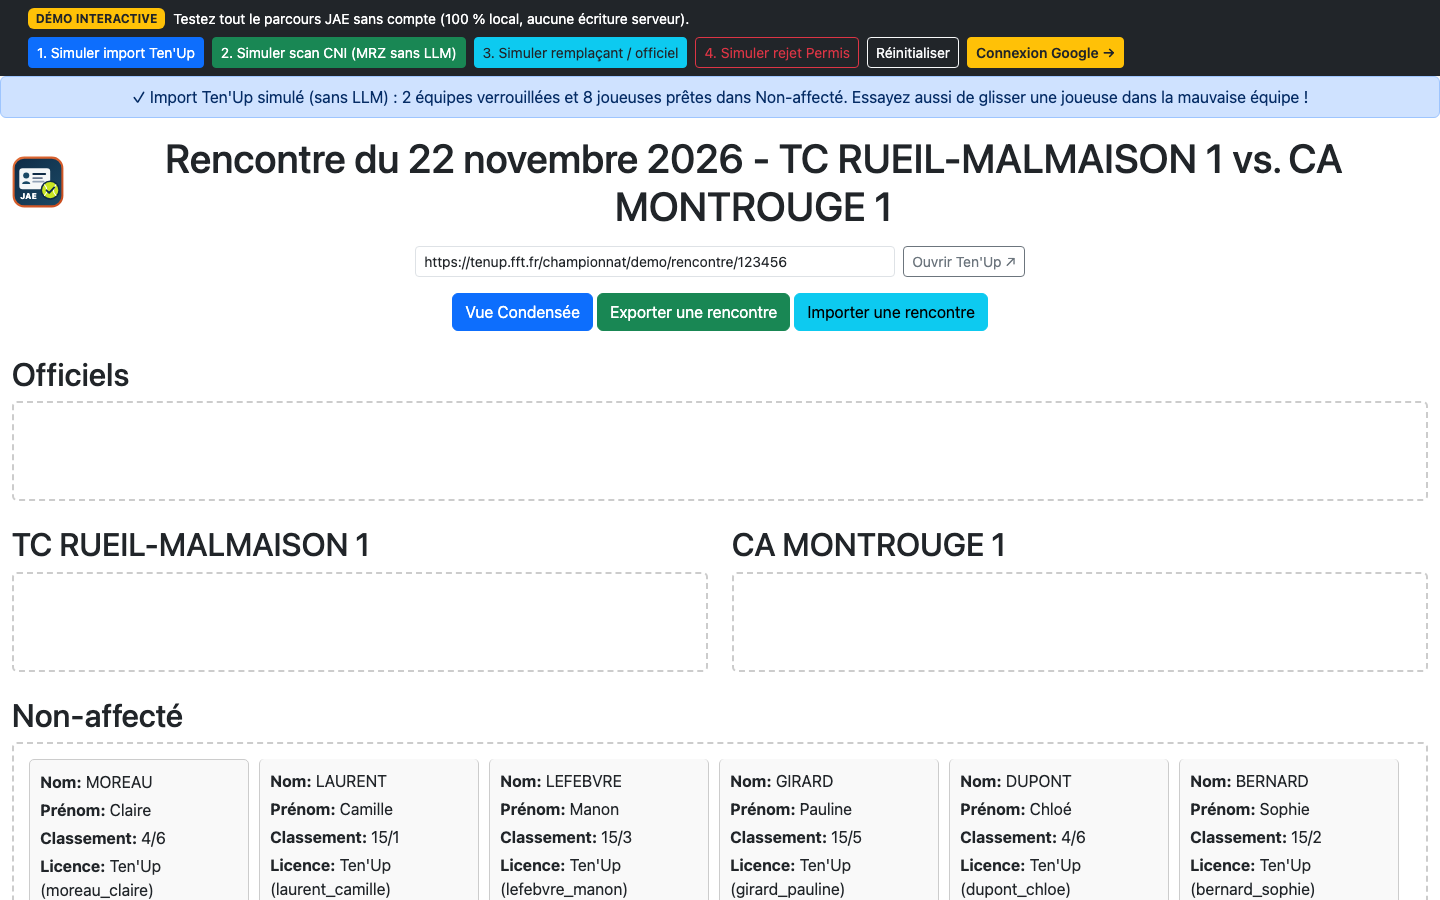
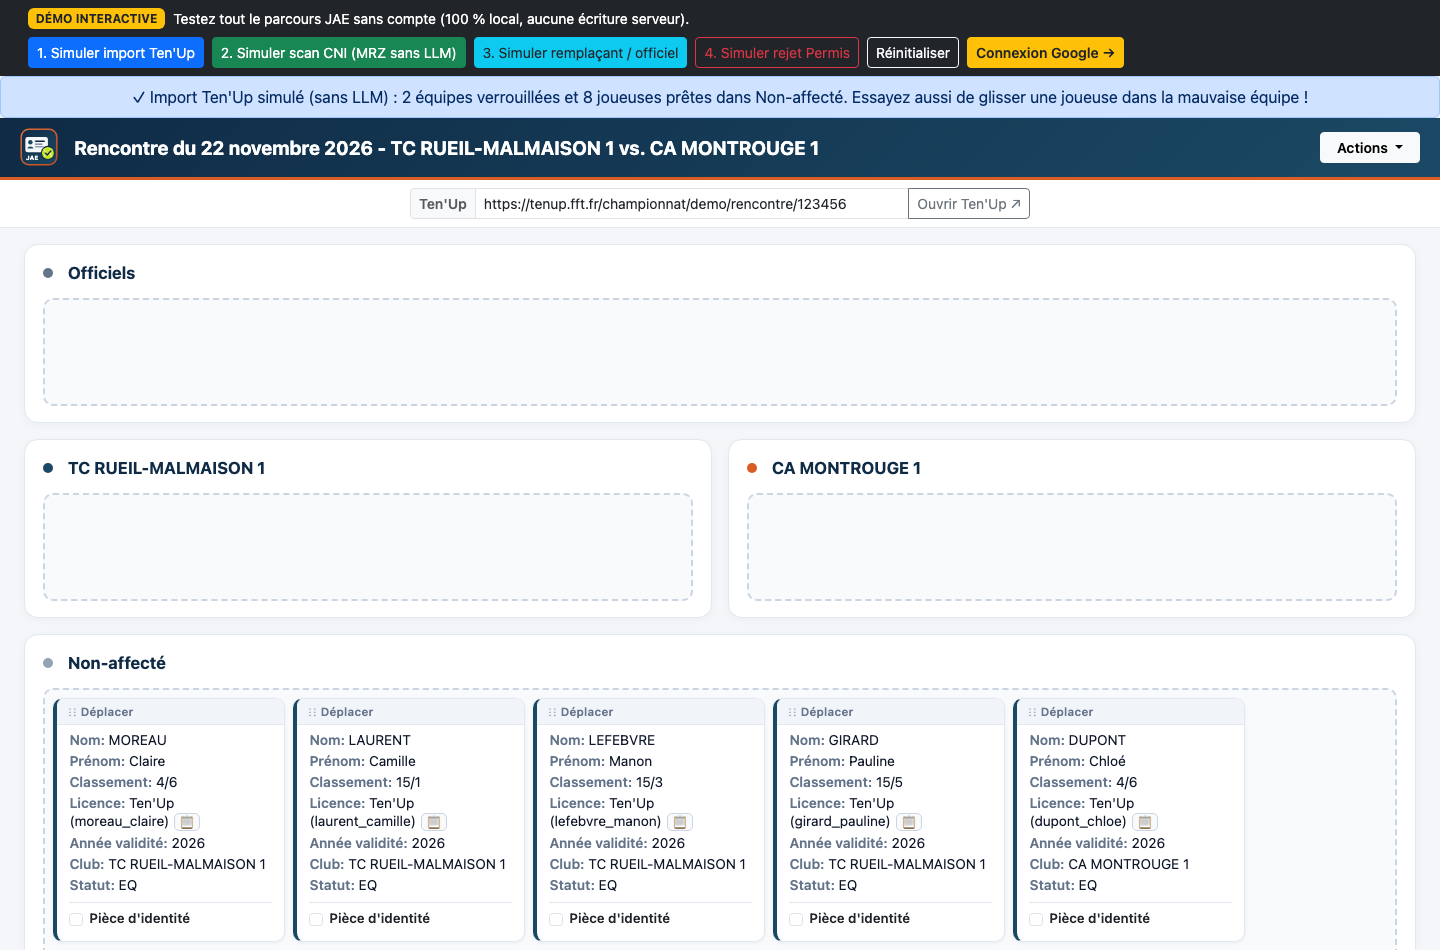
docs: update READMEs and refresh live UI screenshots

diff --git a/README.md b/README.md
@@ -35,12 +35,12 @@ Si vous ne souhaitez pas utiliser l'extension Chrome (ou sans accès à Ten'Up) 
 2. Chaque licence crée une fiche dans **Non-affecté**, et chaque pièce d'identité coche automatiquement la case *Pièce d'identité* correspondante.
 3. Glissez les fiches dans **Équipe 1**, **Équipe 2** ou **Officiels** : la première fiche déposée dans une équipe renomme automatiquement la colonne avec le nom de son club.
 
-Dans tous les scénarios, le tableau de bord se synchronise en temps réel entre plusieurs écrans (ordinateur, tablette), empêche de déposer par erreur une personne dans la mauvaise équipe, et permet d'exporter/importer une rencontre ou d'en démarrer une nouvelle.
+Dans tous les scénarios, le tableau de bord se synchronise en temps réel entre plusieurs écrans (ordinateur, tablette), empêche de déposer par erreur une personne dans la mauvaise équipe, et permet de déplacer les cartes par leur poignée dédiée (`⋮⋮ Déplacer`) tout en conservant la sélection de texte libre et un bouton de copie en un clic (`📋`) sur le numéro de licence. Le menu **Actions** regroupe la vue condensée, l'export/import JSON, le scanner web, la création d'une nouvelle rencontre et, pour les administrateurs, l'accès à la **Console d'administration**.
 
 ## Règles de contrôle, comptes & confidentialité
 
-- **Accès nominatif Google OAuth uniquement (sans mot de passe)** : chaque Juge-Arbitre se connecte exclusivement via **Google** (Firebase Authentication) ; aucun mode anonyme ni mot de passe n'est autorisé. Les nouveaux comptes doivent être **approuvés par l'administrateur** avant de pouvoir accéder à l'application. Pour découvrir le fonctionnement sans compte, une **[démo interactive en ligne](/demo)** est accessible librement (100 % locale, sans écriture serveur).
-- **Une seule rencontre active par JAE, plusieurs rencontres en parallèle** : plusieurs Juges-Arbitres peuvent utiliser l'application simultanément sur des rencontres différentes. Chaque JAE ne gère qu'une seule rencontre active à la fois (identifiée dans l'URL `/m/<identifiant>` pour conserver la session au rafraîchissement), et démarrer une *Nouvelle rencontre* archive proprement la précédente.
+- **Accès nominatif Google OAuth uniquement (sans mot de passe)** : chaque Juge-Arbitre se connecte exclusivement via **Google** (Firebase Authentication) ; aucun mode anonyme ni mot de passe n'est autorisé. Les nouveaux comptes doivent être **approuvés par l'administrateur** avant de pouvoir accéder à l'application. Pour découvrir le fonctionnement sans compte, une **[démo interactive en ligne](https://jae-ocr-2500276981.europe-west1.run.app/demo)** est accessible librement (100 % locale, sans écriture serveur).
+- **Une seule rencontre active par JAE, plusieurs rencontres en parallèle** : plusieurs Juges-Arbitres peuvent utiliser l'application simultanément sur des rencontres différentes. Chaque JAE ne gère qu'une seule rencontre active à la fois (réutilisant directement l'identifiant officiel Ten'Up dans l'URL `/m/<identifiant>` lors d'un import, de façon idempotente sans créer de doublons en cas de réimport), et démarrer une *Nouvelle rencontre* archive proprement la précédente.
 - **Pièces d'identité acceptées uniquement** : **Cartes Nationales d'Identité (CNI)** (ancien ou nouveau format, françaises ou étrangères) et **Passeports**. Les **permis de conduire** et **titres/cartes de séjour** sont automatiquement refusés.
 - **Analyse locale en priorité (sans envoi de photo)** : à chaque fois que c'est possible, la lecture se fait **directement sur votre appareil** (lecture locale des équipes dans Chrome, lecture locale de la bande MRZ des CNI et passeports sur Android). **Aucune photo n'est alors envoyée au serveur** et la validation s'effectue en moins d'une seconde.
 - **Analyse serveur de secours uniquement si besoin** : une photo compressée n'est envoyée au serveur que lorsque la lecture locale ne suffit pas (par exemple un recto seul de nouvelle CNI sans bande MRZ, une carte difficile à lire, ou une attestation de licence FFT scannée à la main).

diff --git a/jae-ocr/README.md b/jae-ocr/README.md
@@ -4,14 +4,13 @@ Tableau de bord web de gestion de la rencontre par équipes et service backend r
 
 ## Fonctionnalités (pour les utilisateurs)
 
-- **Tableau de rencontre clair en 4 zones** : **Officiels**, **Équipe 1**, **Équipe 2** et **Non-affecté**, avec vue complète ou condensée.
+- **Tableau de rencontre clair en 4 zones** : **Officiels**, **Équipe 1**, **Équipe 2** et **Non-affecté**, avec vue complète ou condensée, poignée de glisser-déposer dédiée (`⋮⋮ Déplacer`) libérant la sélection de texte sur chaque fiche, et bouton de copie en un clic (`📋`) sur le numéro de licence.
 - **Validation et placement automatiques** : les joueurs importés de Ten'Up attendent dans *Non-affecté* ; dès que leur pièce d'identité (CNI ou passeport) est scannée, la case *Pièce d'identité* se coche et leur fiche bascule automatiquement dans la colonne de leur équipe.
 - **Protection contre les erreurs** : les noms de clubs importés de Ten'Up sont verrouillés (ils ne sont plus écrasés par un glisser-déposer) et il est impossible de déposer une joueuse ou un joueur dans la colonne de l'équipe adverse.
 - **Contrôle réglementaire strict** : seuls les **CNI et passeports** sont acceptés (permis de conduire et titres de séjour refusés) ; une pièce d'identité seule sans licence ni présence dans la liste Ten'Up (ex. officiel) attend sa licence avant de créer une fiche.
 - **Synchronisation multi-écrans** : chaque glisser-déposer, titre ou lien Ten'Up est partagé automatiquement entre tous les ordinateurs/tablettes connectés.
-- **Accès sécurisé & multi-rencontres en parallèle** : authentification nominative (Firebase Auth) avec validation préalable par l'administrateur, **une seule rencontre active par JAE à la fois**, et URL dédiée `/m/<matchId>` qui survit au rafraîchissement de la page.
-- **Console d'administration séparée (`/admin`)** : URL dédiée (hors interface de rencontre) permettant à l'administrateur (`alexis.mp@gmail.com` par défaut, extensible dynamiquement dans Firestore) d'approuver/bloquer les utilisateurs, promouvoir d'autres administrateurs, consulter/archiver/nettoyer toutes les rencontres et analyser l'historique d'activité et les erreurs.
-- **Lien optionnel vers le scanner web de secours** : accessible directement depuis la barre d'outils du tableau de bord (`Scanner web (secours) ↗`).
+- **Accès sécurisé & multi-rencontres en parallèle** : authentification nominative Google OAuth (Firebase Auth) avec validation préalable par l'administrateur, **une seule rencontre active par JAE à la fois**, et URL dédiée `/m/<matchId>` (réutilisant directement l'identifiant officiel Ten'Up lors d'un import, de façon idempotente en cas de réimport).
+- **Menu Actions épuré & Console d'administration (`/admin`)** : le menu déroulant **Actions** regroupe *Vue Condensée*, *Exporter / Importer une rencontre*, *Scanner web ↗*, *Nouvelle rencontre* et, uniquement pour les comptes administrateurs (`alexis.mp@gmail.com` par défaut, extensible dynamiquement dans Firestore), un lien direct vers la **Console d'administration** (`/admin`).
 - **Mode Démo interactif (`/demo`)** : permet de tester l'ensemble du parcours (import Ten'Up, scan CNI MRZ sans LLM, remplaçant/officiel, rejet permis de conduire, protection glisser-déposer) sans connexion ni écriture serveur.
 
 ![Tableau de bord JAE-OCR](../docs/screenshots/ocr-demo.png)

diff --git a/jae-tenup-extension/README.md b/jae-tenup-extension/README.md
@@ -7,7 +7,7 @@ Extension Chrome permettant au Juge-Arbitre d'importer en un clic la composition
 - **Import en 1 clic depuis votre session Ten'Up** : ouvrez la page officielle de la rencontre sur `tenup.fft.fr` puis cliquez sur l'icône **JAE** et sur *« Extraire les 2 équipes vers JAE-OCR »*.
 - **Aucune capture d'écran ni IA externe** : la lecture des deux équipes se fait directement dans votre navigateur, sans envoyer de page ni d'image à un LLM.
 - **Ouverture automatique du tableau de bord** : dès que les deux équipes sont importées, un nouvel onglet s'ouvre automatiquement sur votre tableau **JAE-OCR** (avec les deux clubs déjà nommés et les joueurs prêts dans *Non-affecté*).
-- **Connexion Juge-Arbitre intégrée** : connectez-vous une fois avec votre compte JAE dans la popup ; l'import est automatiquement rattaché à votre rencontre active (avec option pour démarrer une nouvelle rencontre) et ouvre directement l'URL `/m/<matchId>` correspondante.
+- **Connexion Juge-Arbitre Google OAuth intégrée** : connectez-vous une fois avec votre compte Google dans la popup ; l'extension réutilise directement l'identifiant officiel Ten'Up de l'URL (`/rencontre/<id>`) comme identifiant de rencontre dans **JAE-OCR** (`/m/<id>`), de façon idempotente en cas de réimport.
 - **Interface propre à chaque utilisation** : le statut d'une exécution précédente est automatiquement effacé à la réouverture suivante de l'extension.
 
 ## Installation dans Chrome
@@ -20,12 +20,13 @@ Extension Chrome permettant au Juge-Arbitre d'importer en un clic la composition
 
 ## Détails techniques
 
-### Architecture Manifest V3 (`v1.2.1`)
+### Architecture Manifest V3 (`v1.3.2`)
 
 - **Extraction pure DOM** (`background.js` + `parser.js`) :
+  - Extrait l'identifiant officiel de rencontre depuis l'URL Ten'Up (`extractTenupMatchId`, ex. `/rencontre/<id>`) et le transmet en `tenupMatchId` pour le réutiliser directement comme identifiant Firestore `/m/<id>`.
   - Cible la carte de rencontre Ten'Up dans le DOM (en excluant `header`, `nav`, `footer` et les liens parasites) pour extraire les URLs des deux équipes.
   - Ouvre brièvement chaque page d'équipe dans un onglet actif (`active: true`, nécessaire pour l'hydratation Next.js / `requestAnimationFrame` de Ten'Up), extrait les cartes `[data-slot="card"]` de la section `L'équipe` via `.textContent`, puis referme les onglets temporaires.
-  - Envoie le JSON structuré (`team1Name`, `team1Players`, `team2Name`, `team2Players`, `tenupUrl`) à `POST /api/tenup/roster` sur `jae-ocr` (sans LLM).
+  - Envoie le JSON structuré (`team1Name`, `team1Players`, `team2Name`, `team2Players`, `tenupUrl`, `tenupMatchId`) à `POST /api/tenup/roster` sur `jae-ocr` (sans LLM).
 - **Popup & icônes** (`popup.html`, `popup.js`, `icons/`) :
   - URL du service `jae-ocr` configurable, bouton d'accès direct et ouverture d'onglet via `chrome.tabs.create`.
   - Icônes plein cadre `icon16.png`, `icon48.png`, `icon128.png` et logo `logo.svg`.
